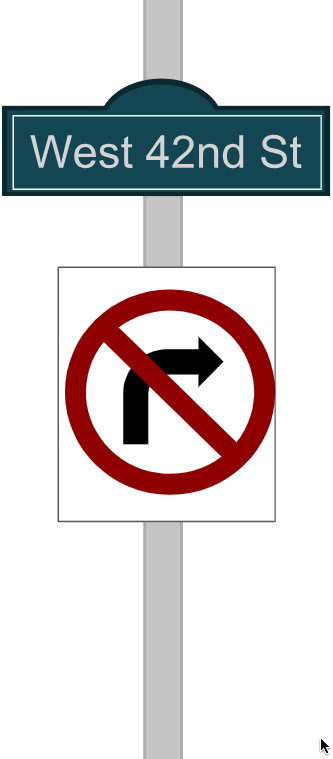
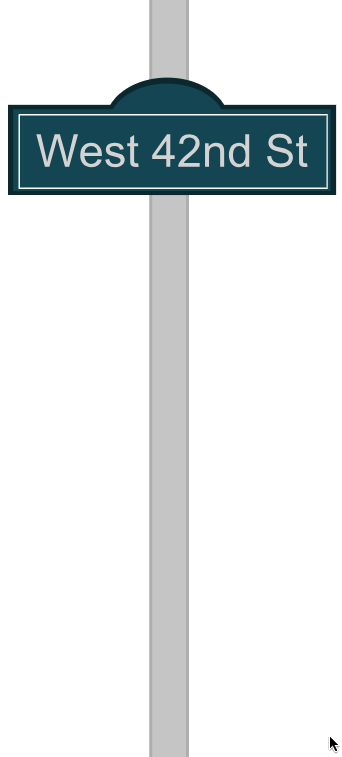
complete level 8

diff --git a/src/animation.js b/src/animation.js
@@ -42,14 +42,15 @@ let streetSign = new StationSign("img/8/st-sign.png", 400, 23, 150, 287)
 
 
 // columns
-// constructor (x, src, w)
-let bgColumn = new Column(fullWidth*1.5, "img/1/bowling-green-col.png", 90) // column for level one: Bowling Green
-let wsColumn = new Column(fullWidth*1.75, "img/2/wall-st-col.png", 90)
-let fsColumn = new Column(fullWidth*2, "img/3/fulton-st-col.png", 90)
-let usColumn = new Column(fullWidth*2, "img/5/union-sq-col.png", 90)
-let gcColumn = new Column(fullWidth*2, "img/6/grand-central-col.png", 90)
-let gcDoor = new Column(fullWidth*2.5-350, "img/7/door.jpg", 250)
-let statue = new Column(fullWidth*2, "img/8/statue-1.png", 450)
+// constructor (x, src, w, h)
+let bgColumn = new Column(fullWidth*1.5, "img/1/bowling-green-col.png", 23, 90, 287) // column for level one: Bowling Green
+let wsColumn = new Column(fullWidth*1.75, "img/2/wall-st-col.png", 23, 90, 287)
+let fsColumn = new Column(fullWidth*2, "img/3/fulton-st-col.png", 23, 90, 287)
+let usColumn = new Column(fullWidth*2, "img/5/union-sq-col.png", 23, 90, 287)
+let gcColumn = new Column(fullWidth*2, "img/6/grand-central-col.png", 90, 287)
+let gcDoor = new Column(fullWidth*2.5-350, "img/7/door.jpg", 23, 250, 287)
+// let taxi42 = new Column(fullWidth*2, "img/8/door.png", 450)
+let taxi42 = new Column(fullWidth, "img/taxi.png", 170, 400, 175)
 
 
 // rats --> 2 rats per each level
@@ -121,7 +122,7 @@ function levelDraws() {
     ticketWindows.forEach( t => t.draw())
   } else if (curLevel == 8) {
     streetSign.draw()
-    statue.draw()
+    taxi42.draw()
   } else if (curLevel == 9) {
 
   }
@@ -132,6 +133,8 @@ function levelDraws() {
 function levelMovesExceptBoss() {
   cans.forEach( o => o.move())
   pizzas.forEach( p => p.move())
+  rats.forEach( o => o.move())
+  hearts.forEach( h => h.move())
 }
 
 function levelMovesIntro() {
@@ -148,7 +151,6 @@ function levelMoves() {
   } else if (curLevel == 2) {
     wallStreetSign.move() // move also includes this.draw()
     wsColumn.move()
-
     levelMovesExceptBoss()
   } else if (curLevel == 3) {
     fultonStreetSign.move()
@@ -156,6 +158,7 @@ function levelMoves() {
     levelMovesExceptBoss()
   } else if (curLevel == 4) {
     bbBoss.move()
+    rats.forEach( o => o.move())
     throws.forEach( t => t.move())
   } else if (curLevel == 5) {
     unionSqSign.move()
@@ -175,13 +178,12 @@ function levelMoves() {
     pigeons.forEach( p => p.move() )
   } else if (curLevel == 8) {
     streetSign.move()
-    statue.move()
+    levelMovesExceptBoss()
     pigeons.forEach( p => p.move() )
+    taxi42.move()
   }
 
   player.draw()
-  rats.forEach( o => o.move())
-  hearts.forEach( h => h.move())
 }
 
 function playerMovements() {

diff --git a/src/levels.js b/src/levels.js
@@ -137,9 +137,9 @@ function renderLevelEight() {
 /**************************************************
           COMPLETE / CONTINUE / GAME OVER
 **************************************************/
-function startGameOnClick() {
-  canvas.addEventListener("click", continueToNextLevel)
-}
+// function startGameOnClick() {
+//   canvas.addEventListener("click", continueToNextLevel)
+// }
 
 function continueLevel() {
   if (lives == 3) {
@@ -157,8 +157,9 @@ function continueLevel() {
 function completedLevel() {
   rats = []
   pizzas = []
+  pigeons = []
 
-  if (curLevel < 6) {
+  if (curLevel < 7 && curLevel != "intro") {
     bringSubway()
   }
 
@@ -227,8 +228,9 @@ function clearCanvas() {
 **************************************************/
 
 function startIntro() {
-  startGameOnClick()
+  // startGameOnClick()
   renderIntro()
+  completedLevel()
   // levelMovesIntro()
 }
 
@@ -287,18 +289,15 @@ function startLevelTen() {
                 INVOKING FUNCTIONS
 **************************************************/
 // startLevelOne()
+// startIntro()
 // startLevelTwo()
 // startLevelThree()
-startLevelSix()
+// startLevelSix()
 // startTest()
 
 /**************************************************
                       TESTS
 **************************************************/
-// clearCanvas()
-// firstRun()
-// subway.draw()
-// column.draw()
-// startLevelSeven()
-// startLevelEight()
+startLevelEight()
 // startIntro()
+// startLevelFive()

diff --git a/src/classes.js b/src/classes.js
@@ -563,12 +563,12 @@ class GameSign {
 } // end of GameSign class
 
 class Column {
-  constructor(x, src, w) {
+  constructor(x, src, y, w, h) {
     this.x = x
-    this.y = 23
+    this.y = y
     this.dx = bgSpeed
     this.width = w
-    this.height = floorPos - this.y - 5
+    this.height = h
     this.image = new Image(50,50)
     this.image.src = src
   }

diff --git a/src/vars.js b/src/vars.js
@@ -9,7 +9,6 @@ const restart = document.querySelector(".restart")
 const score = document.querySelector("#score");
 const cansCollected = document.querySelector("#cans");
 const livesLeft = document.querySelector("#lives");
-const instructions = document.querySelector("#instructions");
 
 
 // canvas screen adjustments

diff --git a/README.md b/README.md
@@ -5,16 +5,14 @@
 [X] collision check (KP)
 [X] render score (LH)
 [X] add boss levels
-[ ] get the subway to leave, then render next level
 [X] end level
     [X]--> stops everything
 
 3/7/19 to do:
-[ ] Intro screen up / [enter to play game]
-[ ] escalator at the end of the game?? !!!!
+[X] Intro screen up / [enter to play game]
 [ ] Build 4 more levels (one more boss - zombie!)
     [X] grand central concourse
-    [ ] 42nd street --> walk to rock center (avoid pigeon poop!)
+    [X.5] 42nd street --> walk to rock center (avoid pigeon poop!)
     [ ] elevator up --> bonus round to collect stuff!!!
     [ ] TOP OF THE ROCK --> last boss!!!!!
 
